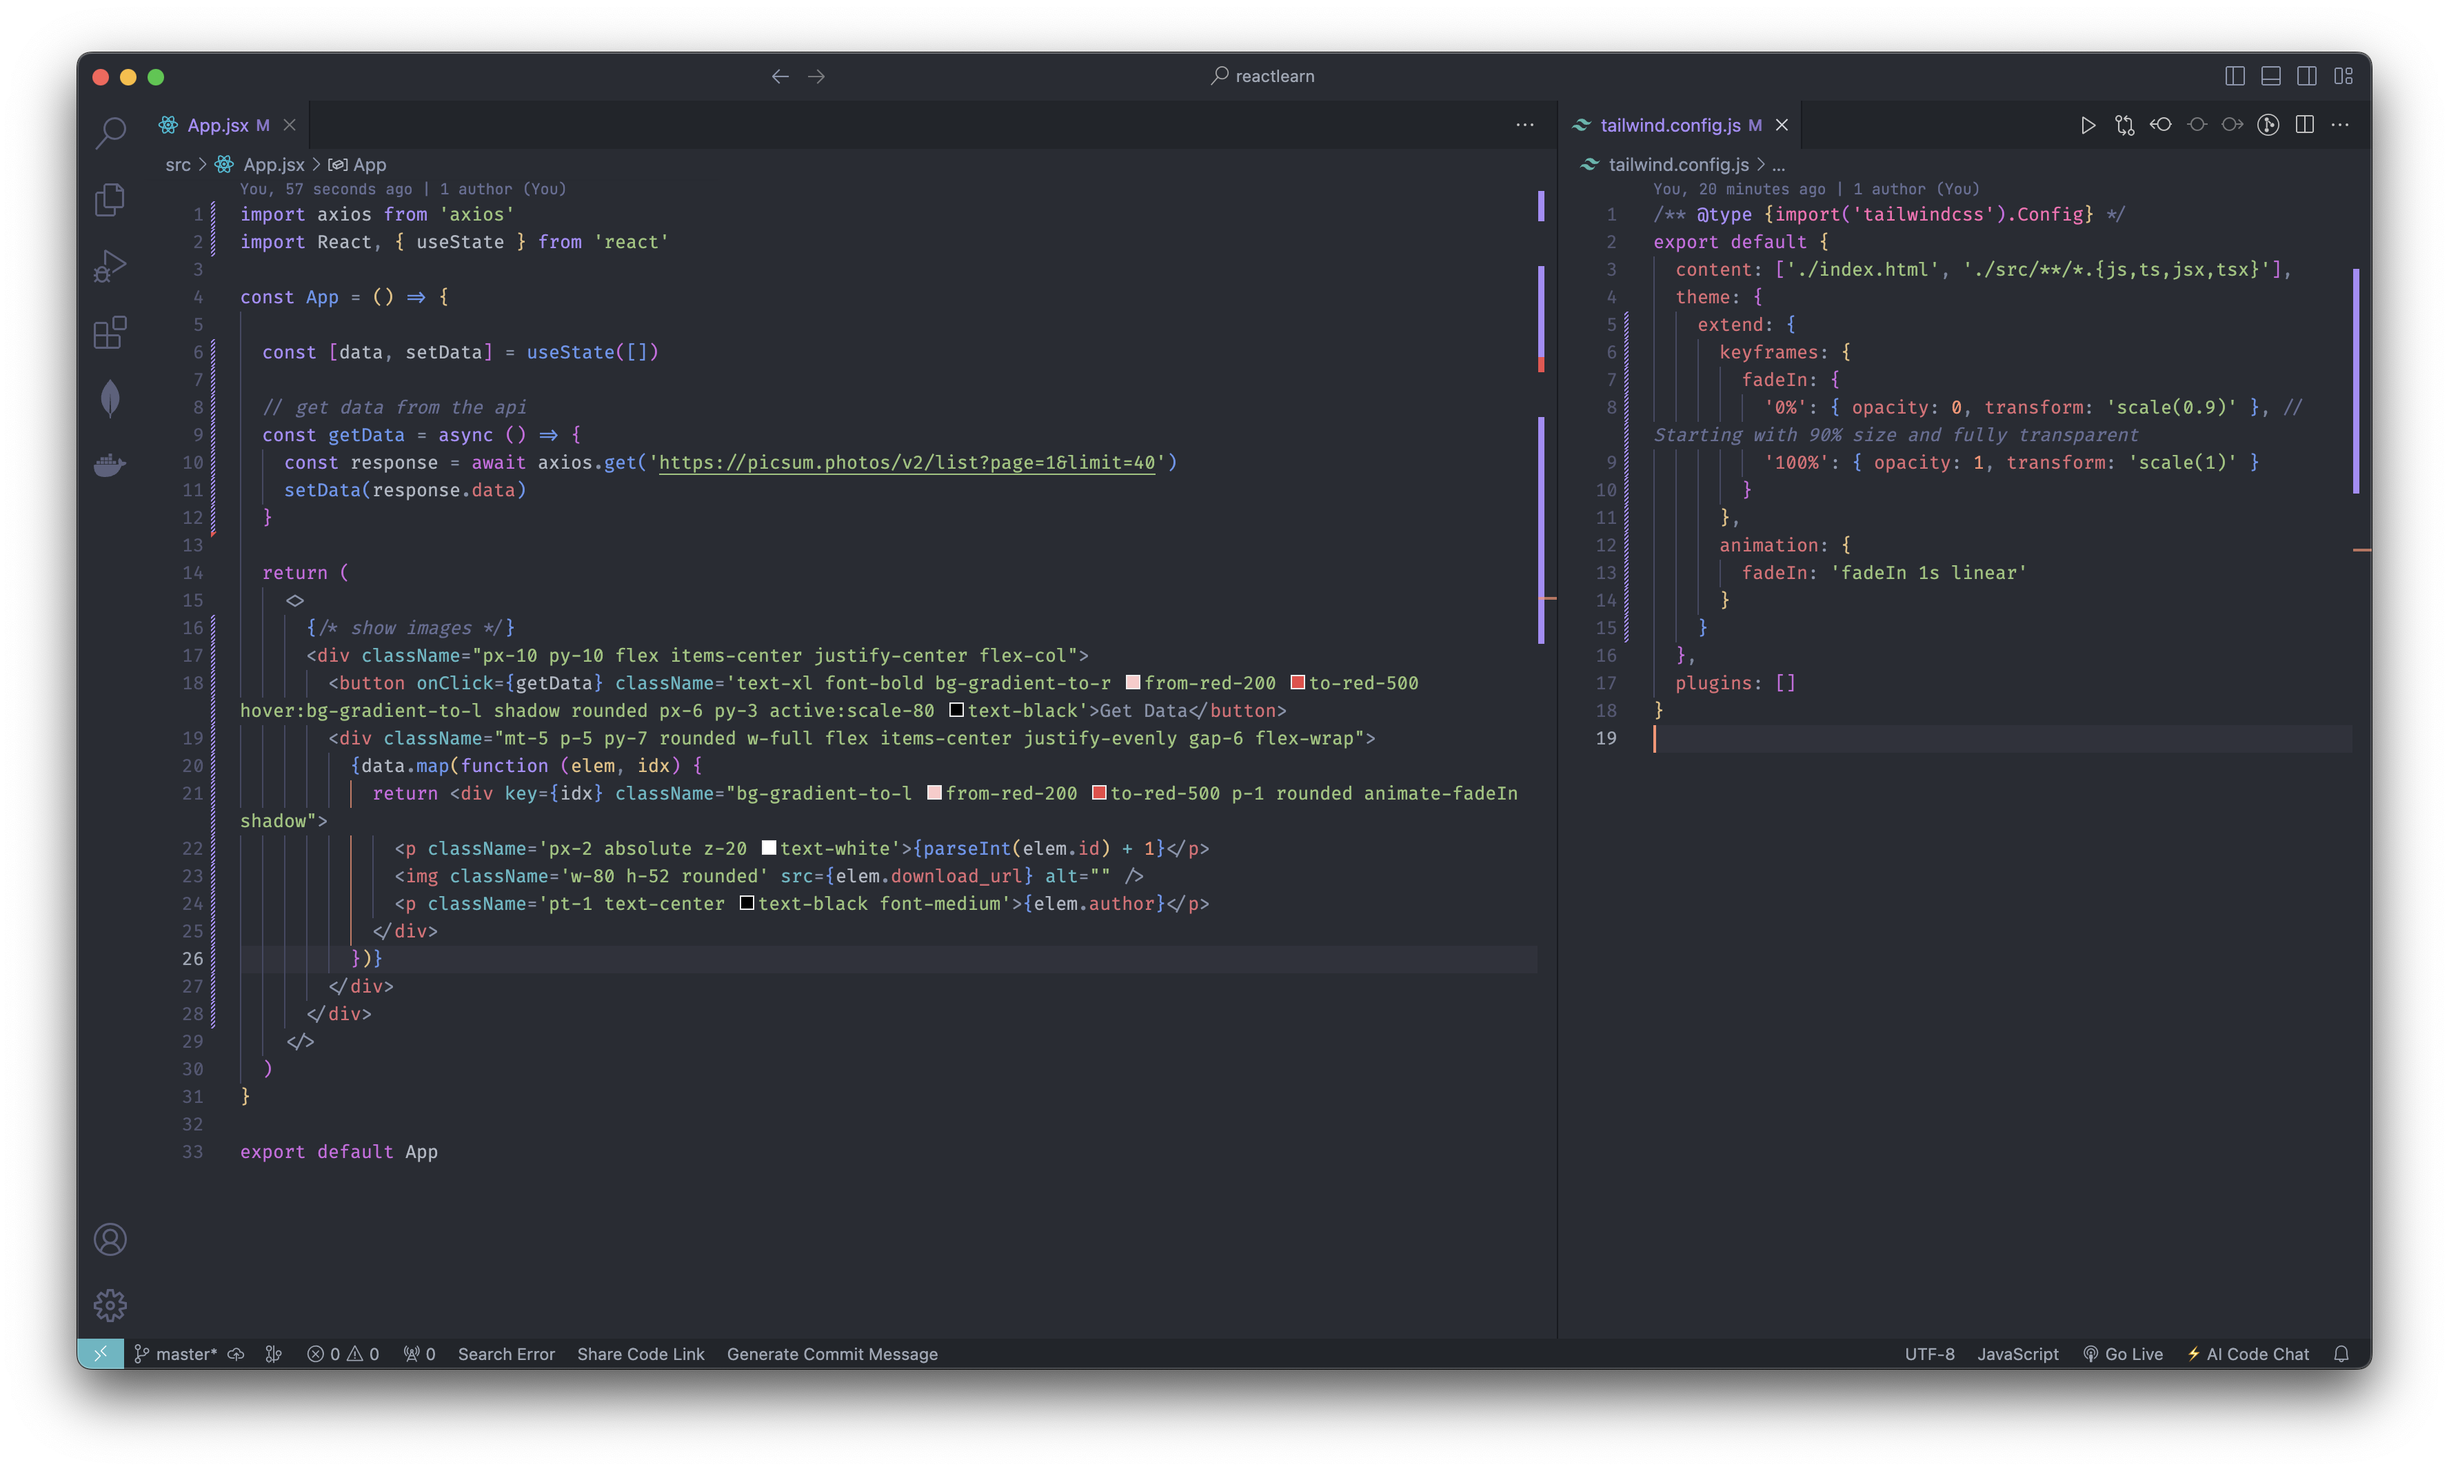
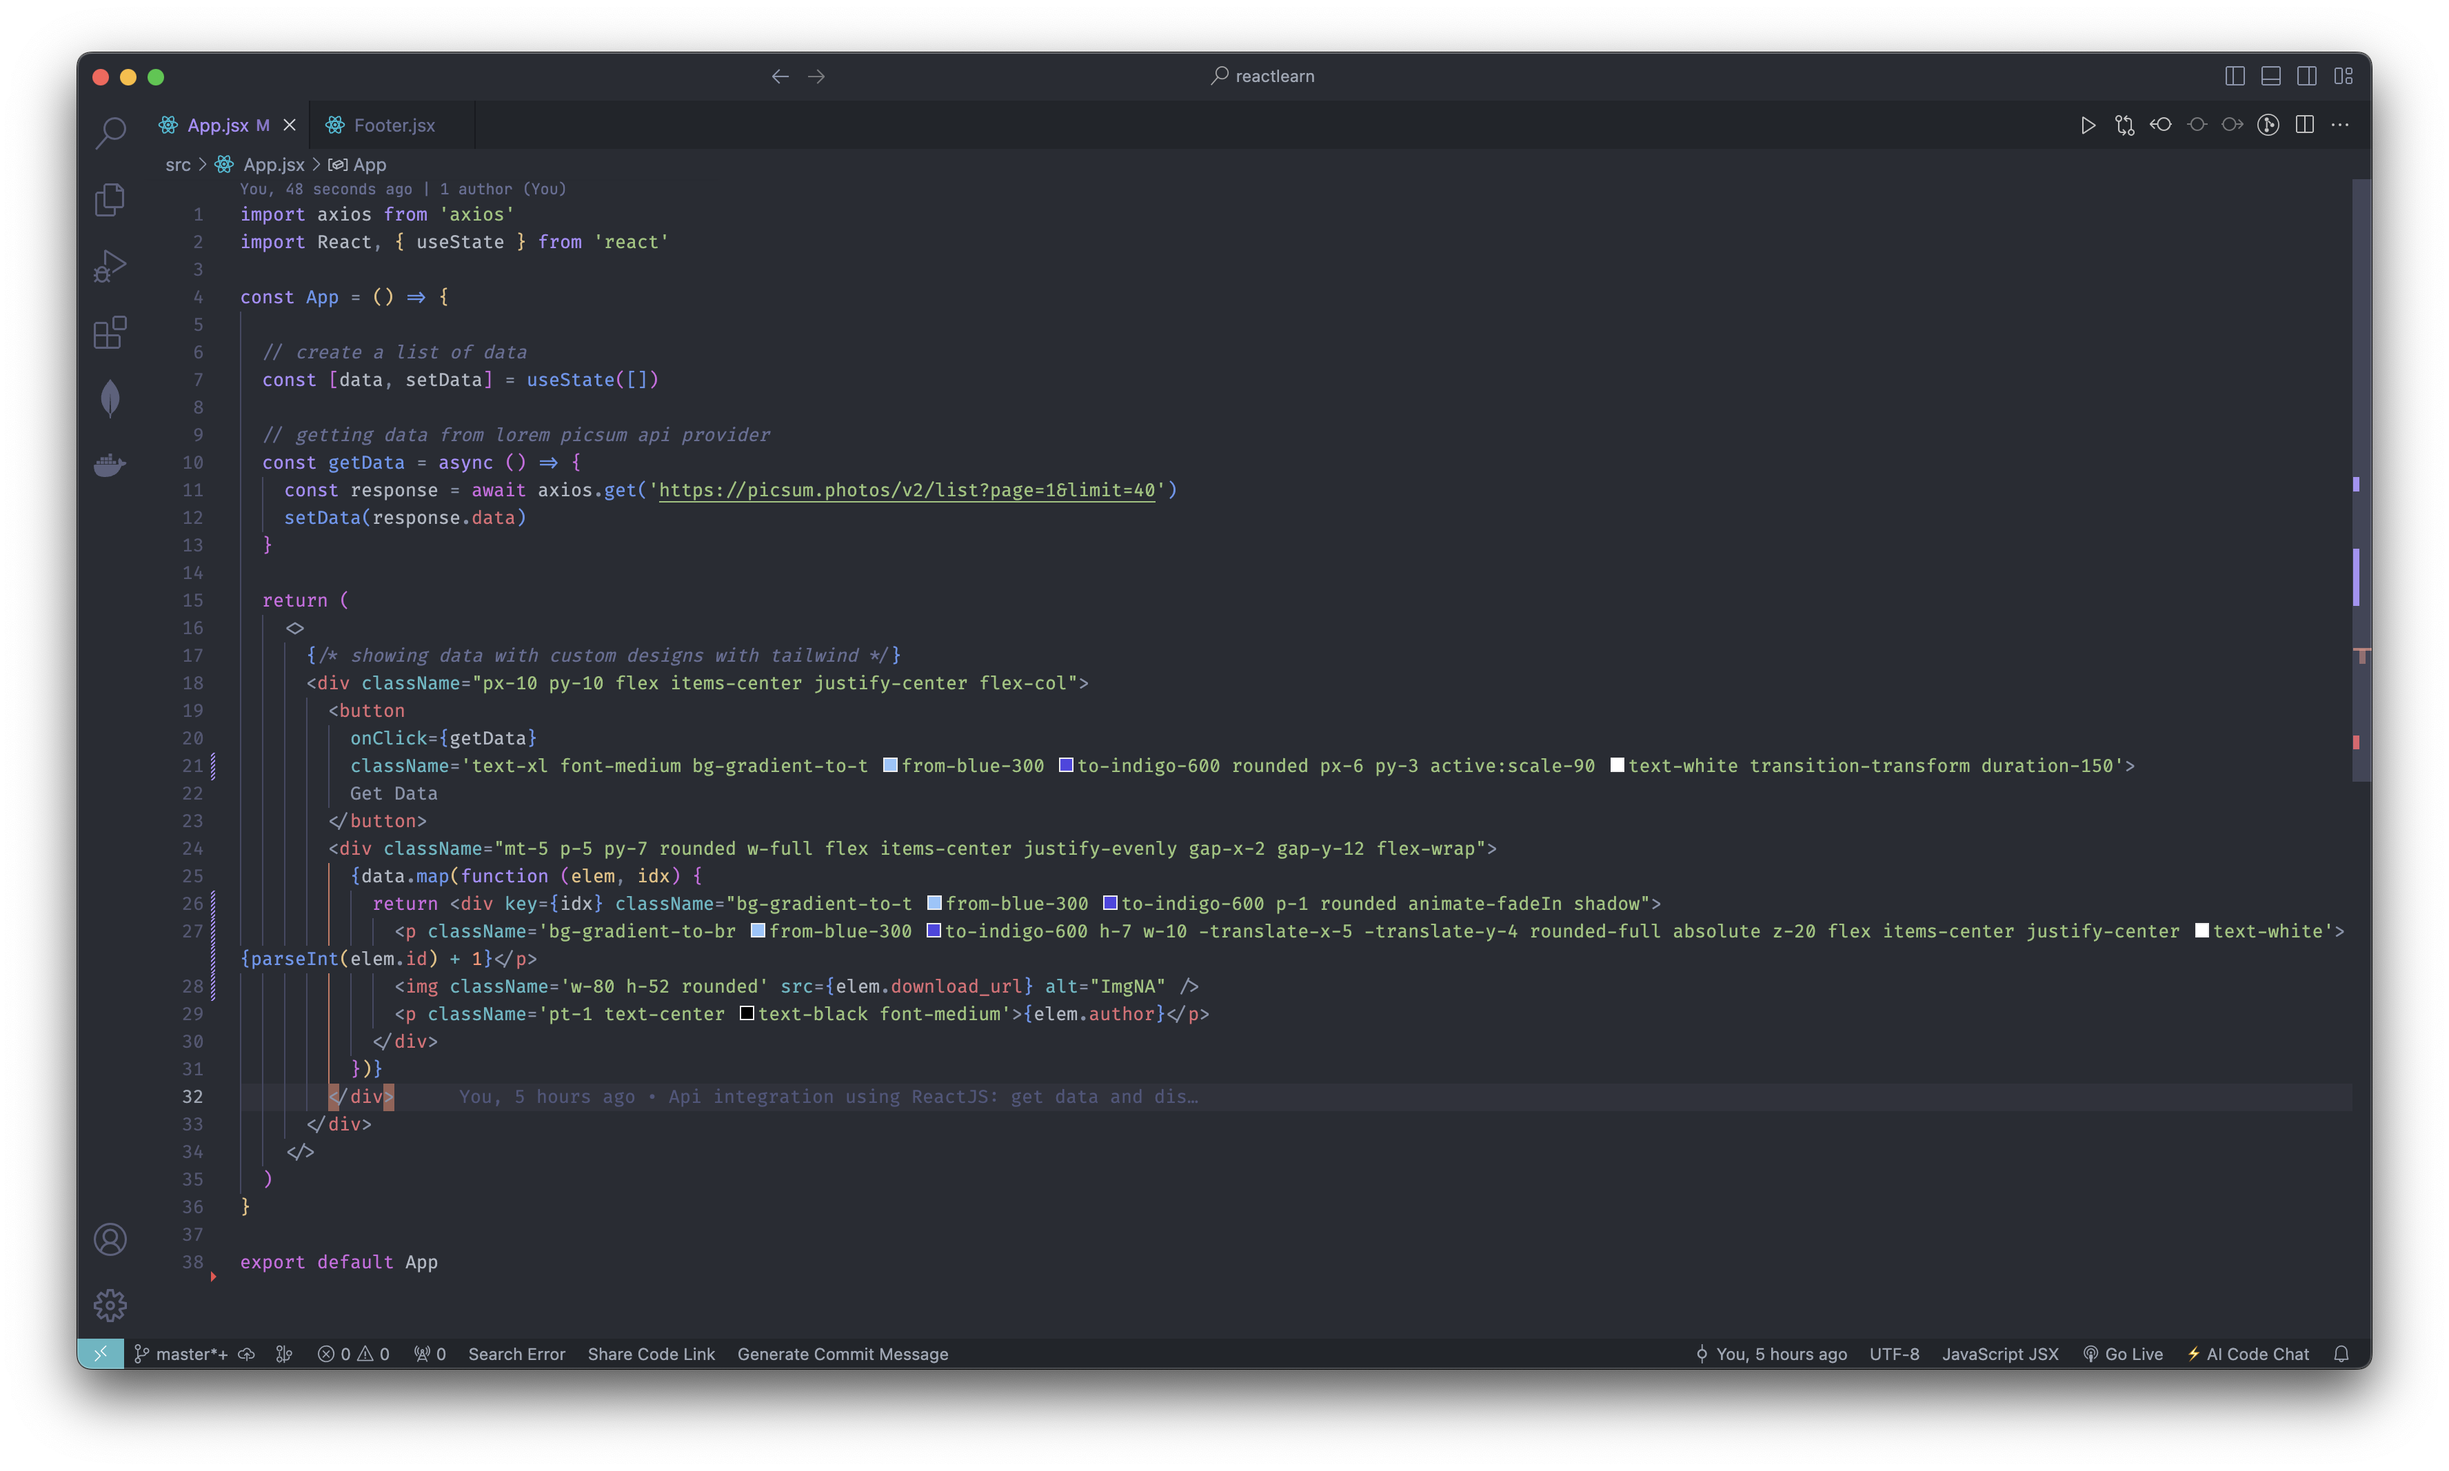
Minor Design Change: Update UI to show api data

diff --git a/src/App.jsx b/src/App.jsx
@@ -18,14 +18,14 @@ const App = () => {
       <div className="px-10 py-10 flex items-center justify-center flex-col">
         <button
           onClick={getData}
-          className='text-xl font-bold bg-gradient-to-r from-red-200 to-red-500 hover:bg-gradient-to-l shadow rounded px-6 py-3 active:scale-80 text-black'>
+          className='text-xl font-medium bg-gradient-to-t from-blue-300 to-indigo-600 rounded px-6 py-3 active:scale-90 text-white transition-transform duration-150'>
           Get Data
         </button>
-        <div className="mt-5 p-5 py-7 rounded w-full flex items-center justify-evenly gap-6 flex-wrap">
+        <div className="mt-5 p-5 py-7 rounded w-full flex items-center justify-evenly gap-x-2 gap-y-12 flex-wrap">
           {data.map(function (elem, idx) {
-            return <div key={idx} className="bg-gradient-to-l from-red-200 to-red-500 p-1 rounded animate-fadeIn shadow">
-              <p className='px-2 absolute z-20 text-white'>{parseInt(elem.id) + 1}</p>
-              <img className='w-80 h-52 rounded' src={elem.download_url} alt="" />
+            return <div key={idx} className="bg-gradient-to-t from-blue-300 to-indigo-600 p-1 rounded animate-fadeIn shadow">
+              <p className='bg-gradient-to-br from-blue-300 to-indigo-600 h-7 w-10 -translate-x-5 -translate-y-4 rounded-full absolute z-20 flex items-center justify-center text-white'>{parseInt(elem.id) + 1}</p>
+              <img className='w-80 h-52 rounded' src={elem.download_url} alt="ImgNA" />
               <p className='pt-1 text-center text-black font-medium'>{elem.author}</p>
             </div>
           })}
